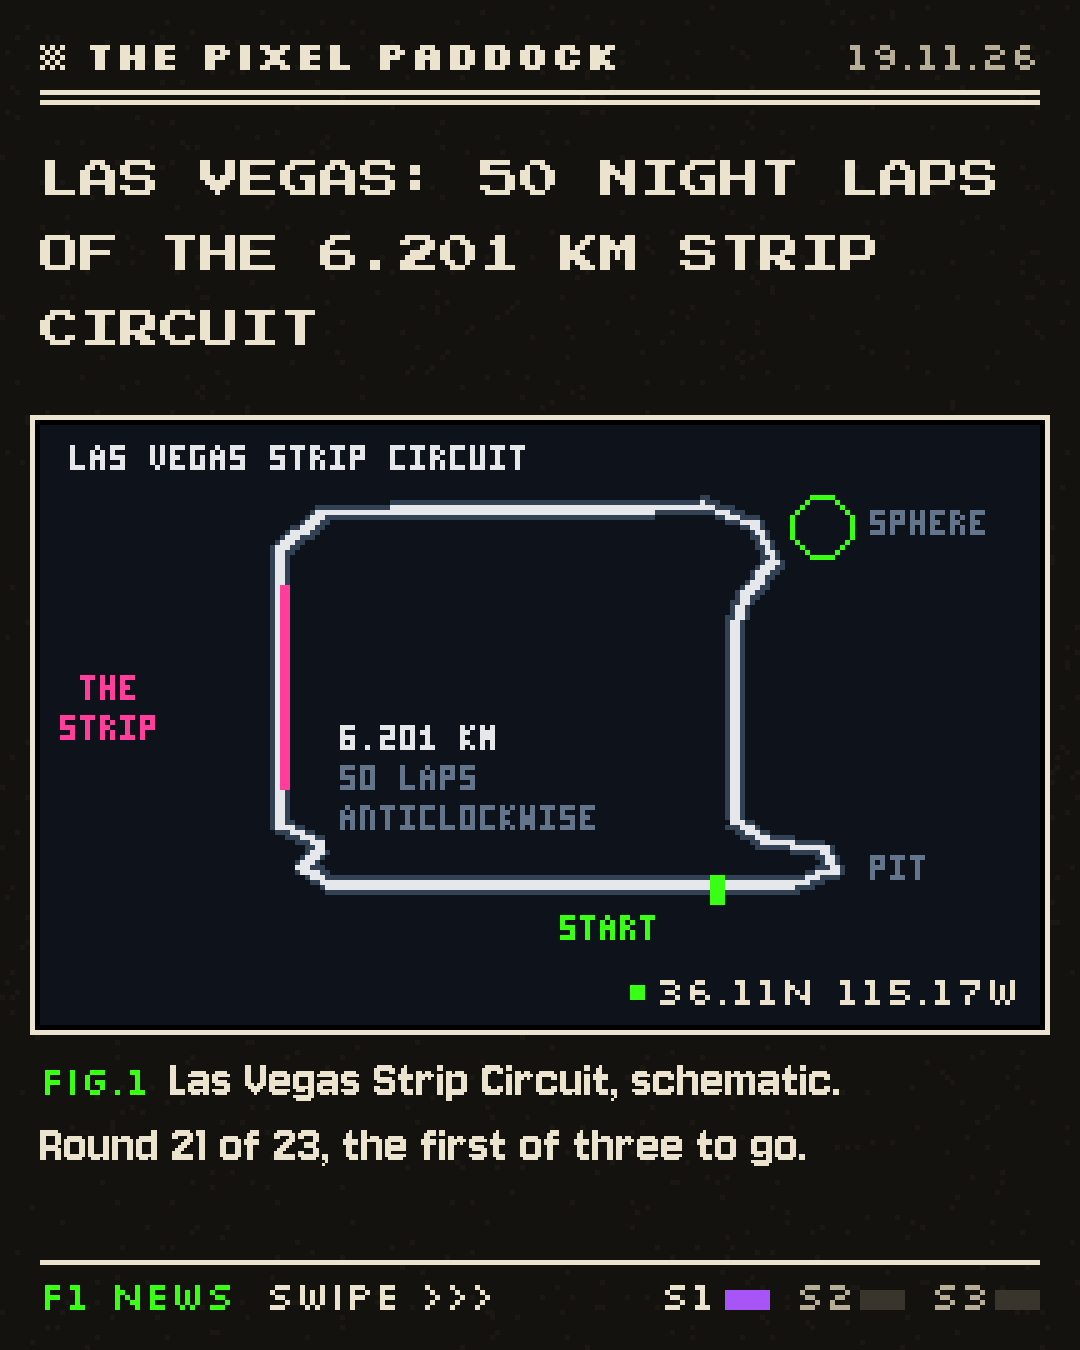
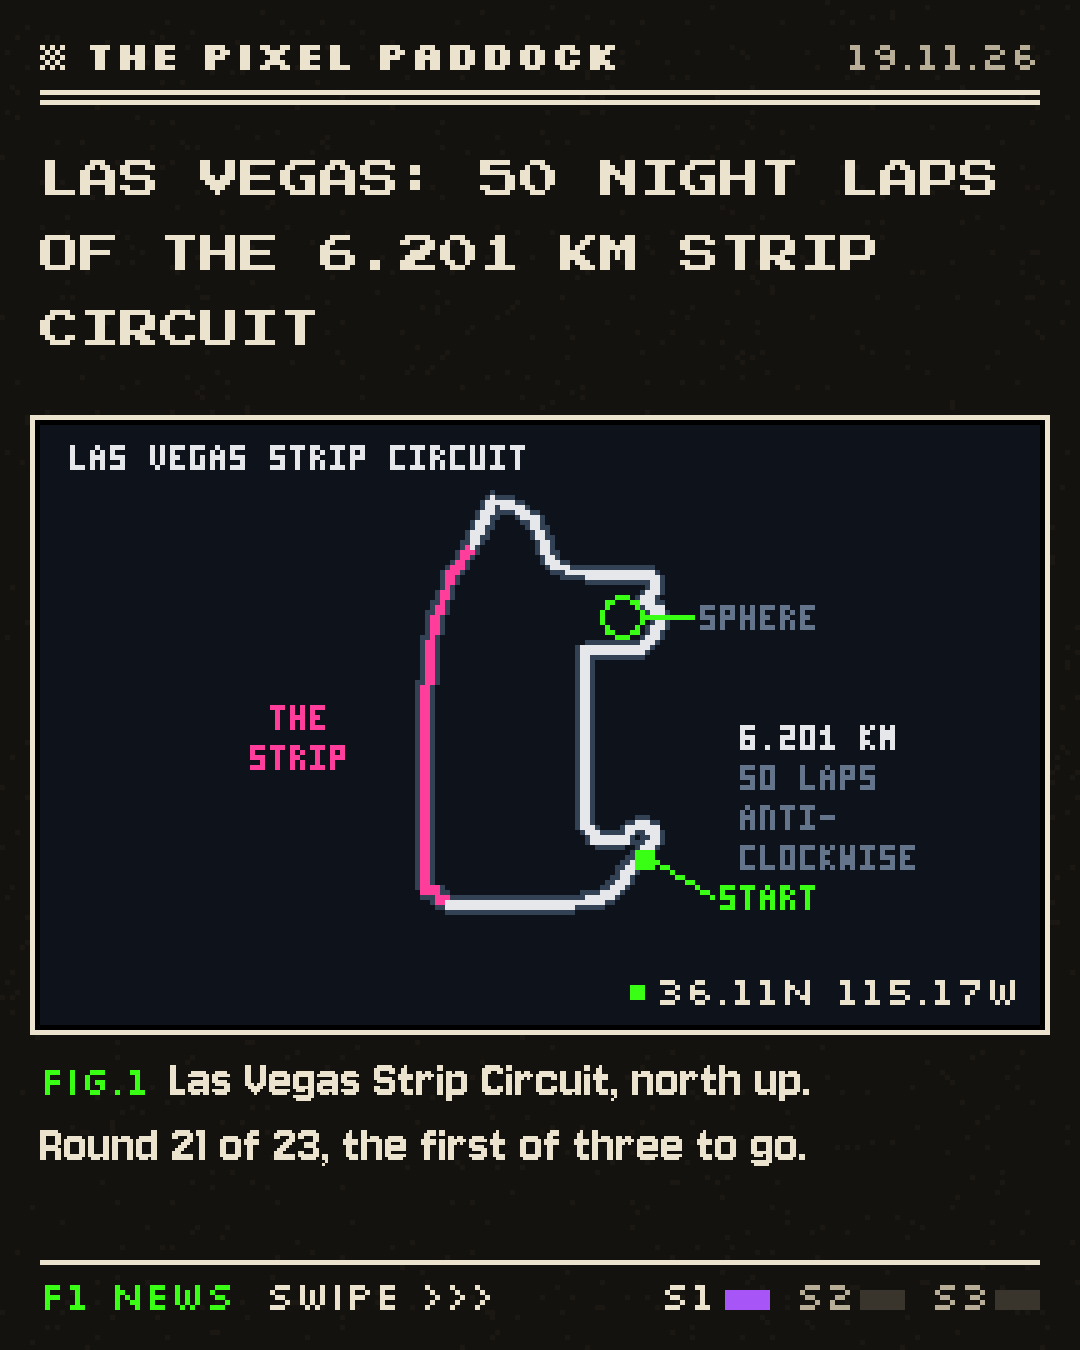
vegas preview: real circuit geometry (bacinger us-2023) instead of schematic
Claude-Session: https://claude.ai/code/session_01XcMK5Sp6yyyARadsj7RYTL

Changed region(s): [[0.2139, 0.3422, 0.9167, 0.7156], [0.5806, 0.7778, 0.7639, 0.8089], [0.0611, 0.4978, 0.1528, 0.56]]

diff --git a/posts/2026-11-19_vegas-preview/post_vegas.py b/posts/2026-11-19_vegas-preview/post_vegas.py
@@ -5,23 +5,29 @@ exec(open(os.path.join(os.path.dirname(os.path.abspath(__file__)),"post_fri.py")
 # Las Vegas GP 2026 preview. Times: F1.com (Las Vegas = UTC-8). History: Jolpica circuits/vegas.
 PINK = hx("#ff3d9a")
 
-# --- stylised Strip Circuit (anticlockwise; north up). Schematic, not to scale.
-TRACK = [(150,92),(120,92),(70,92),(58,92),(52,88),(56,84),(48,80),(48,40),(48,24),(56,17),(70,16),(122,16),
-         (132,15),(142,19),(146,27),(140,34),(138,40),(138,78),(144,82),(156,84),(158,89),(150,92)]
-def draw_track(d, col=INK, w=2):
-    for (x0,y0),(x1,y1) in zip(TRACK, TRACK[1:]):
-        d.line([(x0,y0),(x1,y1)], fill=col, width=w)
+# --- Las Vegas Strip Circuit, real geometry: bacinger/f1-circuits us-2023 (MIT, see geo/lic.txt). North up.
+import json as _json, math as _math
+_C=_json.load(open(os.path.join(HERE,"..","geo","lv.geojson")))["features"][0]["geometry"]["coordinates"]
+def _proj(lo,la, s=80/1960, x0=None):
+    k=_math.cos(_math.radians(36.1167))*111320
+    return ((lo+115.1667)*k*s+100, (36.1255-la)*110540*s+16)
+TRACK=[_proj(lo,la) for lo,la in _C]
+STRIP=set(i for i,(lo,la) in enumerate(_C) if lo<-115.1705)
+SPHERE=_proj(-115.1621,36.1206)
+def draw_track(d, col=INK, w=2, strip=None):
+    for i in range(len(TRACK)-1):
+        c_ = strip if (strip and i in STRIP and i+1 in STRIP) else col
+        d.line([TRACK[i],TRACK[i+1]], fill=c_, width=w)
 
 def s_track():
     im = Image.new("RGB",(200,120),BG); d=ImageDraw.Draw(im)
     tx(d,6,4,"LAS VEGAS STRIP CIRCUIT",INK)
-    draw_track(d, SL, 4); draw_track(d, INK, 2)
-    d.line([(48,32),(48,72)], fill=PINK, width=2)           # the Strip
-    tx(d,8,50,"THE",PINK); tx(d,4,58,"STRIP",PINK)
-    d.ellipse([150,14,162,26], outline=GREEN); tx(d,166,17,"SPHERE",MUT)
-    r(d,134,90,136,95,GREEN); tx(d,104,98,"START",GREEN)  # start line
-    tx(d,166,86,"PIT",MUT)
-    tx(d,60,60,"6.201 KM",INK); tx(d,60,68,"50 LAPS",MUT); tx(d,60,76,"ANTICLOCKWISE",MUT)
+    draw_track(d, SL, 4); draw_track(d, INK, 2, strip=PINK)
+    xs=[TRACK[i][0] for i in STRIP]; ys=[TRACK[i][1] for i in STRIP]
+    tx(d,int(min(xs))-30,int(sum(ys)/len(ys))-6,"THE",PINK); tx(d,int(min(xs))-34,int(sum(ys)/len(ys))+2,"STRIP",PINK)
+    sx,sy=SPHERE; d.ellipse([sx-4,sy-4,sx+4,sy+4], outline=GREEN); d.line([(sx+5,sy),(sx+14,sy)],fill=GREEN); tx(d,int(sx)+16,int(sy)-2,"SPHERE",MUT)
+    px,py=TRACK[0]; r(d,int(px)-1,int(py)-1,int(px)+2,int(py)+2,GREEN); d.line([(px+3,py+1),(px+14,py+8)],fill=GREEN); tx(d,int(px)+16,int(py)+6,"START",GREEN)
+    tx(d,140,60,"6.201 KM",INK); tx(d,140,68,"50 LAPS",MUT); tx(d,140,76,"ANTI-",MUT); tx(d,140,84,"CLOCKWISE",MUT)
     calm(d); return im
 
 def s_race_tz():
@@ -88,14 +94,14 @@ def slide(k, head, scene, figt, bod, foot, name):
     body(im, y + 95, bod)
     footer(im, d, k, foot); im.save(f"{OUT}/{name}.png")
 
-slide(1,"LAS VEGAS: 50 NIGHT LAPS OF THE 6.201 KM STRIP CIRCUIT",s_track,"Las Vegas Strip Circuit, schematic.","Round 21 of 23, the first of three to go.","SWIPE >>>","1_1")
+slide(1,"LAS VEGAS: 50 NIGHT LAPS OF THE 6.201 KM STRIP CIRCUIT",s_track,"Las Vegas Strip Circuit, north up.","Round 21 of 23, the first of three to go.","SWIPE >>>","1_1")
 slide(2,"LIGHTS OUT SAT 20:00 LOCAL, SUN 04:00 UTC",s_race_tz,"Race start in six time zones.","Saturday night in Vegas is Sunday in Europe and Asia.","SWIPE >>>","1_2")
 slide(3,"A PODIUM FROM P10 OR LOWER IN EVERY VEGAS RACE",s_comeback,"Lowest grid slot to reach the podium.","Perez 2023, Hamilton 2024, Antonelli 2025.","FOLLOW","1_3")
 slide(1,"VERSTAPPEN WON 2 OF 3 VEGAS RACES, BOTH FROM P2",s_history,"Winners and pole sitters since 2023.","Only Russell has turned Vegas pole into a win.","SWIPE >>>","2_1")
 slide(2,"FP1 THURSDAY 16:30 LOCAL, RACE SATURDAY 20:00",s_weekend,"Every session, local time vs UTC.","Las Vegas runs 8 hours behind UTC.","SWIPE >>>","2_2")
 slide(3,"6.201 KM, 50 LAPS, CONTRACT UNTIL 2037",s_stats,"Six numbers for the weekend.","Las Vegas is on the calendar for 12 more seasons.","FOLLOW","2_3")
 slide(1,"PEREZ P11, HAMILTON P10, ANTONELLI P17 TO THE PODIUM",s_comeback,"Lowest grid slot to reach the podium.","Every Vegas race so far had a comeback podium.","SWIPE >>>","3_1")
-slide(2,"VEGAS: DOWN THE STRIP, AROUND THE SPHERE, 50 TIMES",s_track,"Las Vegas Strip Circuit, schematic.","6.201 km, raced anticlockwise.","SWIPE >>>","3_2")
+slide(2,"VEGAS: DOWN THE STRIP, AROUND THE SPHERE, 50 TIMES",s_track,"Las Vegas Strip Circuit, north up.","6.201 km, raced anticlockwise.","SWIPE >>>","3_2")
 slide(3,"QUALI FRI 20:00 LOCAL, RACE SAT 20:00 LOCAL",s_weekend,"Every session, local time vs UTC.","Race: Sunday 04:00 UTC.","FOLLOW","3_3")
 names=[f"{v}_{i}" for v in "123" for i in "123"]
 sh=Image.new("RGB",(3*550+10,3*685+10),(60,60,60))

diff --git a/toolkit/examples/post_vegas.py b/toolkit/examples/post_vegas.py
@@ -5,23 +5,29 @@ exec(open(os.path.join(os.path.dirname(os.path.abspath(__file__)),"post_fri.py")
 # Las Vegas GP 2026 preview. Times: F1.com (Las Vegas = UTC-8). History: Jolpica circuits/vegas.
 PINK = hx("#ff3d9a")
 
-# --- stylised Strip Circuit (anticlockwise; north up). Schematic, not to scale.
-TRACK = [(150,92),(120,92),(70,92),(58,92),(52,88),(56,84),(48,80),(48,40),(48,24),(56,17),(70,16),(122,16),
-         (132,15),(142,19),(146,27),(140,34),(138,40),(138,78),(144,82),(156,84),(158,89),(150,92)]
-def draw_track(d, col=INK, w=2):
-    for (x0,y0),(x1,y1) in zip(TRACK, TRACK[1:]):
-        d.line([(x0,y0),(x1,y1)], fill=col, width=w)
+# --- Las Vegas Strip Circuit, real geometry: bacinger/f1-circuits us-2023 (MIT, see geo/lic.txt). North up.
+import json as _json, math as _math
+_C=_json.load(open(os.path.join(HERE,"..","geo","lv.geojson")))["features"][0]["geometry"]["coordinates"]
+def _proj(lo,la, s=80/1960, x0=None):
+    k=_math.cos(_math.radians(36.1167))*111320
+    return ((lo+115.1667)*k*s+100, (36.1255-la)*110540*s+16)
+TRACK=[_proj(lo,la) for lo,la in _C]
+STRIP=set(i for i,(lo,la) in enumerate(_C) if lo<-115.1705)
+SPHERE=_proj(-115.1621,36.1206)
+def draw_track(d, col=INK, w=2, strip=None):
+    for i in range(len(TRACK)-1):
+        c_ = strip if (strip and i in STRIP and i+1 in STRIP) else col
+        d.line([TRACK[i],TRACK[i+1]], fill=c_, width=w)
 
 def s_track():
     im = Image.new("RGB",(200,120),BG); d=ImageDraw.Draw(im)
     tx(d,6,4,"LAS VEGAS STRIP CIRCUIT",INK)
-    draw_track(d, SL, 4); draw_track(d, INK, 2)
-    d.line([(48,32),(48,72)], fill=PINK, width=2)           # the Strip
-    tx(d,8,50,"THE",PINK); tx(d,4,58,"STRIP",PINK)
-    d.ellipse([150,14,162,26], outline=GREEN); tx(d,166,17,"SPHERE",MUT)
-    r(d,134,90,136,95,GREEN); tx(d,104,98,"START",GREEN)  # start line
-    tx(d,166,86,"PIT",MUT)
-    tx(d,60,60,"6.201 KM",INK); tx(d,60,68,"50 LAPS",MUT); tx(d,60,76,"ANTICLOCKWISE",MUT)
+    draw_track(d, SL, 4); draw_track(d, INK, 2, strip=PINK)
+    xs=[TRACK[i][0] for i in STRIP]; ys=[TRACK[i][1] for i in STRIP]
+    tx(d,int(min(xs))-30,int(sum(ys)/len(ys))-6,"THE",PINK); tx(d,int(min(xs))-34,int(sum(ys)/len(ys))+2,"STRIP",PINK)
+    sx,sy=SPHERE; d.ellipse([sx-4,sy-4,sx+4,sy+4], outline=GREEN); d.line([(sx+5,sy),(sx+14,sy)],fill=GREEN); tx(d,int(sx)+16,int(sy)-2,"SPHERE",MUT)
+    px,py=TRACK[0]; r(d,int(px)-1,int(py)-1,int(px)+2,int(py)+2,GREEN); d.line([(px+3,py+1),(px+14,py+8)],fill=GREEN); tx(d,int(px)+16,int(py)+6,"START",GREEN)
+    tx(d,140,60,"6.201 KM",INK); tx(d,140,68,"50 LAPS",MUT); tx(d,140,76,"ANTI-",MUT); tx(d,140,84,"CLOCKWISE",MUT)
     calm(d); return im
 
 def s_race_tz():
@@ -88,14 +94,14 @@ def slide(k, head, scene, figt, bod, foot, name):
     body(im, y + 95, bod)
     footer(im, d, k, foot); im.save(f"{OUT}/{name}.png")
 
-slide(1,"LAS VEGAS: 50 NIGHT LAPS OF THE 6.201 KM STRIP CIRCUIT",s_track,"Las Vegas Strip Circuit, schematic.","Round 21 of 23, the first of three to go.","SWIPE >>>","1_1")
+slide(1,"LAS VEGAS: 50 NIGHT LAPS OF THE 6.201 KM STRIP CIRCUIT",s_track,"Las Vegas Strip Circuit, north up.","Round 21 of 23, the first of three to go.","SWIPE >>>","1_1")
 slide(2,"LIGHTS OUT SAT 20:00 LOCAL, SUN 04:00 UTC",s_race_tz,"Race start in six time zones.","Saturday night in Vegas is Sunday in Europe and Asia.","SWIPE >>>","1_2")
 slide(3,"A PODIUM FROM P10 OR LOWER IN EVERY VEGAS RACE",s_comeback,"Lowest grid slot to reach the podium.","Perez 2023, Hamilton 2024, Antonelli 2025.","FOLLOW","1_3")
 slide(1,"VERSTAPPEN WON 2 OF 3 VEGAS RACES, BOTH FROM P2",s_history,"Winners and pole sitters since 2023.","Only Russell has turned Vegas pole into a win.","SWIPE >>>","2_1")
 slide(2,"FP1 THURSDAY 16:30 LOCAL, RACE SATURDAY 20:00",s_weekend,"Every session, local time vs UTC.","Las Vegas runs 8 hours behind UTC.","SWIPE >>>","2_2")
 slide(3,"6.201 KM, 50 LAPS, CONTRACT UNTIL 2037",s_stats,"Six numbers for the weekend.","Las Vegas is on the calendar for 12 more seasons.","FOLLOW","2_3")
 slide(1,"PEREZ P11, HAMILTON P10, ANTONELLI P17 TO THE PODIUM",s_comeback,"Lowest grid slot to reach the podium.","Every Vegas race so far had a comeback podium.","SWIPE >>>","3_1")
-slide(2,"VEGAS: DOWN THE STRIP, AROUND THE SPHERE, 50 TIMES",s_track,"Las Vegas Strip Circuit, schematic.","6.201 km, raced anticlockwise.","SWIPE >>>","3_2")
+slide(2,"VEGAS: DOWN THE STRIP, AROUND THE SPHERE, 50 TIMES",s_track,"Las Vegas Strip Circuit, north up.","6.201 km, raced anticlockwise.","SWIPE >>>","3_2")
 slide(3,"QUALI FRI 20:00 LOCAL, RACE SAT 20:00 LOCAL",s_weekend,"Every session, local time vs UTC.","Race: Sunday 04:00 UTC.","FOLLOW","3_3")
 names=[f"{v}_{i}" for v in "123" for i in "123"]
 sh=Image.new("RGB",(3*550+10,3*685+10),(60,60,60))
